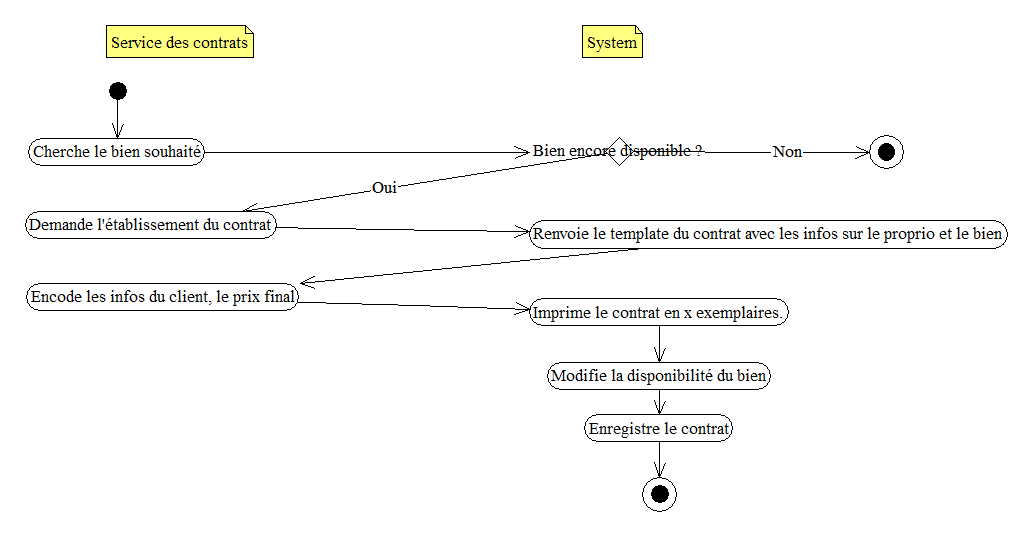
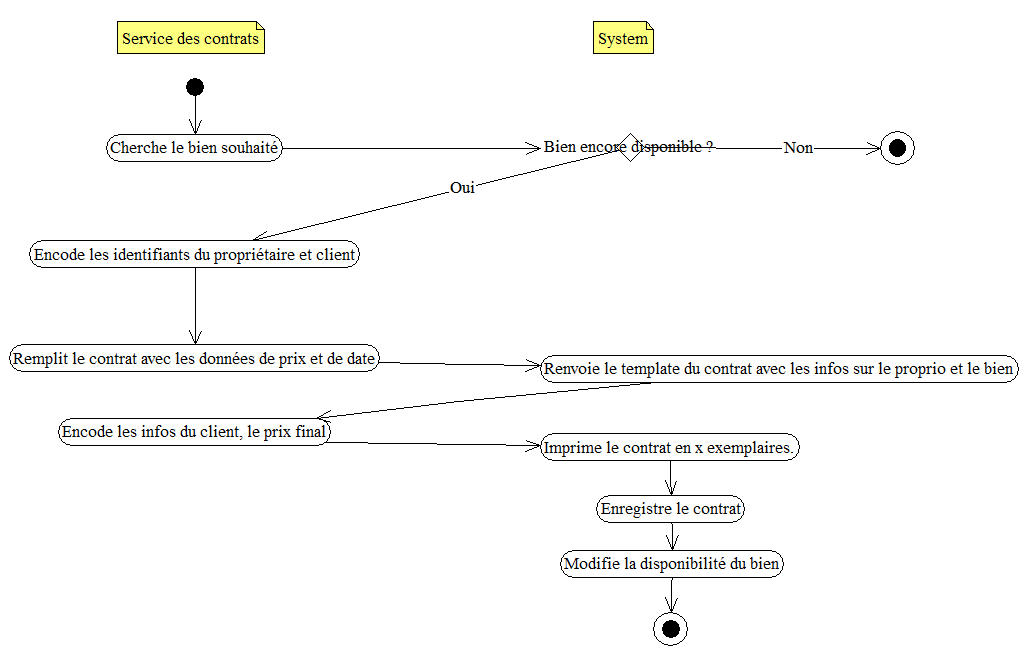
Rapport final

diff --git a/fonction.tex b/fonction.tex
@@ -5,7 +5,7 @@ Dans le cadre de la gestion de l'agence immobilière, nous avons pointé les gra
 Elles sont les suivantes :
 \begin{itemize}
 	\item l'ajout d'une personne,
-	\item la gestion d'un bien,
+	\item l'ajout d'un bien,
 	\item la gestion d'une demande d'un client,
 	\item la planification des visites,
 	\item la création de statistiques.
@@ -36,7 +36,7 @@ Acteur (service des demandes) & System\\
 6. Encode les numéros de téléphone  & 7. Enregistre les numéros de téléphone\\
 \hline
 \end{longtable}
-\subsubsection{La gestion d'un bien}
+\subsubsection{L'ajout d'un bien}
 Lorsqu'un propriétaire se présente à l'agence, il se rend auprès du service des demandes.
 Ce service commence par saisir les informations relatives à ce propriétaire.
 Ensuite, le système vérifie l'existence de ce propriétaire. S'il existe l'employé continue son travail en saisissant les informations relatives au bien. Dans le cas contraire, il commence tout d'abord par ajouter le propriétaire dans le système, pour ensuite saisir les informations relatives au bien.
@@ -85,7 +85,7 @@ Acteur (service des demandes)& System\\
 \end{longtable}
 
 \subsubsection{La planification des visites}
-Pour la gestion des plannings des visites, le service des visites reçoit les demandes de la part des clients.
+Pour la gestion du planning des visites, le service des visites reçoit les demandes de la part des clients.
 Les clients se présentent avec la liste des biens qu'ils ont sélectionnés au préalable avec le service des demandes.
 Cette liste est analysée par les employés du service des visites. L'un des employés interroge le système d'information pour obtenir des informations plus détaillées sur les biens. Un autre employé interroge le système afin d'obtenir les photos des différents biens.
 À l'aide les photos et les informations détaillées, le client opère un deuxième tri avec le service des visites. À le fin de ce tri, l'employé supprime de la liste du client les biens non-désirés.
@@ -107,6 +107,30 @@ Acteur (service des visites)& System\\
 8. Enregistre un responsable pour chaque visite & 9. Enregistre l'information sur le responsable\\
 \hline
 \end{longtable}
+
+\subsubsection{L'établissement d'un contrat}
+Lorsqu'un client a trouvé un bien disponible qui l'intéresse, il se présente au service des demandes pour établir le contrat. Au préalable, le propriétaire a été prévenu et est présent. 
+Le client, le propriétaire et l'employé discutent des détails du contrat.
+Quand le termes sont acceptés par toutes les parties, l'employé encode dans le système les informations sur le contrat.
+Il encode les identifiants du propriétaire et du client, le montant de la vente ou le loyer selon le bien.
+Pour une location, il encode aussi la durée du bail.
+L'employé imprime les contrats sur papier et les fait signer par le propriétaire et le client.
+Il encode finalement la date de signature et le système modifie la disponibilité du bien.
+Le bien vendu ou loué n'est plus disponible pour les autres clients. Nous effectuons une suppression logique.
+
+\subsubsection*{Tableau récapitulatif}
+\begin{longtable}{|p{7.5cm}|p{7.5cm}|}
+\hline
+Acteur (service des demandes)& System\\
+\hline
+1. Encode les identifiants du client et du propriétaire & \\
+2. Encode le montant de le vente ou de location plus le bail, et la date de signature & 3. Enregistre les informations\\
+4. Imprime les contrats & \\
+5. Enregistre le contrat \\
+& 7. Modifie la disponibilité du bien\\
+\hline
+\end{longtable}
+
 \subsubsection{La création des statistiques}
 Les statistiques sur les demandes sont générées automatiquement par le système en fin de semaine ou après cent nouvelles demandes.
 Elles reprennent divers informations concernant les demandes. Ces informations seront à détailler par la suite.
@@ -122,7 +146,7 @@ Acteur (service des demandes)& System\\
 \hline
 \end{longtable}
 
-\newpage
+\mbox{}
 \subsubsection{Schéma récapitulatif}
 Après avoir établi les scénarios précédents, nous avons réalisé un schéma récapitulant les fonctionnalités principales ainsi que les acteurs intervenants. Voici ce schéma :
 

diff --git a/uml.tex b/uml.tex
@@ -1,8 +1,10 @@
 \mbox{}
 \subsection{Modélisation UML}
-A partir de l'analyse initiale ainsi qu'avec les informations obtenues à l'aide du diagramme des use-case et du diagramme des activities, nous avons pu établir un premier diagramme de classe. Ce diagramme de classe, aussi appelé UML, représente un schéma des différentes entités (futurs tables) principales que nous allons retrouver plus tard dans la base de données. Nous pouvons aussi y trouver les associations nommées entre ces entités, et les cardinalités associées. Le logiciel que nous avons utilisé ne nous permettant pas d'autres cardinalités que 1 ou *, 1 vaut pour 1-1 et 0-1, tandis que * vaut pour 1-N et 0-N.\\
+A partir de l'analyse initiale ainsi qu'avec les informations obtenues à l'aide du diagramme des use-case et du diagramme d'activité, nous avons pu établir un premier diagramme de classe. Ce diagramme de classe, aussi appelé UML, représente un schéma des différentes entités (futurs tables) principales que nous allons retrouver plus tard dans la base de données. Nous pouvons aussi y trouver les associations nommées entre ces entités, et les cardinalités associées. Le logiciel que nous avons utilisé ne nous permettant pas d'autres cardinalités que 1 ou *, 1 vaut pour 1-1 et 0-1, tandis que * vaut pour 1-N et 0-N.\\
 
-Le diagramme UML nous permet également de visualiser les fonctions nécessaires au bon fonctionnement du système d'informations. Dans le cas du diagramme que nous présentons à la page suivante, les fonctions définies sont les premières auxquelles nous avons pensé. Nous aurions du compléter ce diagramme à l'aide des fonctionnalités découvertes à l'aide des diagrammes de séquences, définis à la prochaine section. Cependant, nous avons manqué de temps, et nous n'avons pas su terminer les diagrammes de séquence. De ce fait, nous avons délibérément choisi de montrer le diagramme UML défini auparavant, ceci pour éviter d'avoir quelque chose de mal balancé dans nos classes.
+Le diagramme UML nous permet également de visualiser les fonctions nécessaires au bon fonctionnement du système d'informations. Dans le cas du diagramme que nous présentons à la page suivante, les fonctions définies sont les premières auxquelles nous avons pensé. Nous aurions du compléter ce diagramme à l'aide des fonctionnalités découvertes à l'aide des diagrammes de séquences, définis à la prochaine section. Cependant, nous avons manqué de temps, et nous n'avons pas su terminer les diagrammes de séquence. De ce fait, nous avons délibérément choisi de montrer le diagramme UML défini auparavant, ceci pour éviter d'avoir quelque chose de mal balancé dans nos classes.\\
+
+ L'UML se trouve à la page suivante (p.\pageref{fig:uml}), figure \ref{fig:uml}.
 
 
 \newpage

diff --git a/conclusion.tex b/conclusion.tex
@@ -1,1 +1,9 @@
+\newpage
 \section{Conclusion}
+Au terme de ce cahier des charges, nous pensons avoir fourni une solution viable et correcte afin de répondre aux besoins de système d'informations de l'agence immobilière.\\
+
+Nous avons commencé par réaliser une première analyse des documents fournis par l'agence, afin d'en tirer une ébauche de schéma entité-association. Cette ébauche a par la suite été complétée à l'aide de différents outils. Nous nous sommes servis des diagramme de type use-case afin de définir les grandes fonctionnalités du système. Nous en avons élaboré les scénarios complets afin de vérifier la justesse de notre schéma entité-association et le corriger si nécessaire. Par la suite, nous avons traduit ces scénarios en diagrammes d'activité, représentant les interactions entre les acteurs des scénarios, le système, et les conditions rencontrées en cours de traitement. Nos avons enfin complété notre ébauche à l'aide des diagrammes UML. Nous aurions aimé rendre nos entités encore plus précises à l'aide des diagramme de séquence, mais nous avons manqué de temps pour l'élaboration de ceux-ci. Nous nous sommes donc contentés de ce qui avait été réalisé auparavant.\\
+
+Au final, nous sommes arrivés a un schéma entité-association complété par les différents outils mis à notre disposition, réalisé sous DB-Main. Ce schéma association répond aux attentes de l'agence immobilière pour la réalisation de leur système d'informations. Ce schéma final a enfin été traduit en schéma relationnel. Celui-ci représente la base de données à implémenter pour l'agence immobilière, sous forme des diverses tables, ainsi que les tables ajoutées par les associations, les clés primaires, et les clés étrangères liant le tout.\\
+
+Nous espérons, au travers de ce document, avoir répondu à la demande de système d'informations de la part de l'agence immobilière. Nous osons croire que l'analyse que nous avons fournie est suffisamment complète et satisfera notre client.

diff --git a/intro.tex b/intro.tex
@@ -1,2 +1,2 @@
 \section{Introduction}
-Ce cahier des charges est destiné à répondre à la demande de mise en place d'un système d'information pour une agence immobilière locale. Nous commençons ce document en présentant le cadre dans lequel ce cahier des charges a été demandé. Nous passons ensuite à une première analyse de la problématique sous forme d'une ébauche pouvant amener à un schéma entité-association, devant être complété par après. Nous fournissons bien entendu des explications justifiants nos choix. Par la suite, nous présentons la manière dont nous avons utilisé différents outils mis à notre disposition afin d'obtenir un prototype de base de données le plus efficace possible. Nous expliquons enfin le résultat auquel nous sommes parvenus, et que nous considérons comme le plus efficace pour l'implémentation du système d'informations demandé.
+Ce cahier des charges est destiné à répondre à la demande de mise en place d'un système d'information pour une agence immobilière locale. Nous commençons ce document en présentant le cadre dans lequel ce cahier des charges a été demandé. Nous passons ensuite à une première analyse de la problématique sous forme d'une ébauche pouvant amener à un schéma entité-association, devant être complété par après. Nous fournissons bien entendu des explications justifiants nos choix. Par la suite, nous présentons la manière dont nous avons utilisé différents outils mis à notre disposition afin d'obtenir un prototype de base de données le plus efficace possible. Nous utilisons les outils diagramme use-case, diagramme d'activité, diagramme de classes UML, et diagramme de séquence. Nous expliquons enfin le résultat auquel nous sommes parvenus, et que nous considérons comme le plus efficace pour l'implémentation du système d'informations demandé.

diff --git a/biblio.tex b/biblio.tex
@@ -1,5 +1,9 @@
-\section*{Bibilographie}
-\addcontentsline{toc}{section}{\protect\numberline{}Bibliographie}
+\newpage
+\section*{Ressources utilisées}
+\addcontentsline{toc}{section}{\protect\numberline{}Ressources utilisées}
 \begin{enumerate}
-\item 
+\item FAULKNER Stéphane, slides utilisées dans le cadre du cours d'\textit{Architecture base de données} des 3TI, Ephec, 2014-2015.
+\item DB-Main, logiciel de modélisation de bases de données, \url{http://www.db-main.be/}
+\item ArgoUML, UML Modeling Tool, \url{http://sourceforge.net/projects/argouml.mirror/}
+\item Creately,  Online Diagram Software to draw Flowcharts, UML, ..., \url{http://creately.com/}
 \end{enumerate}

diff --git a/main.tex b/main.tex
@@ -88,13 +88,29 @@ showstringspaces=false,
 \newpage
 \input{intro}
 \input{rappel}
+\newpage
+\mbox{}
+\thispagestyle{empty}
 \include{analyse}
 \input{fonction}
 \input{activities}
 \input{uml}
 \input{sequence}
+\newpage
+\mbox{}
+\thispagestyle{empty}
+\newpage
 \input{description}
+\newpage
+\mbox{}
+\thispagestyle{empty}
+\newpage
 \input{conclusion}
+\newpage
+\mbox{}
+\thispagestyle{empty}
+\newpage
+\input{biblio}
 
 
 \end{document}
